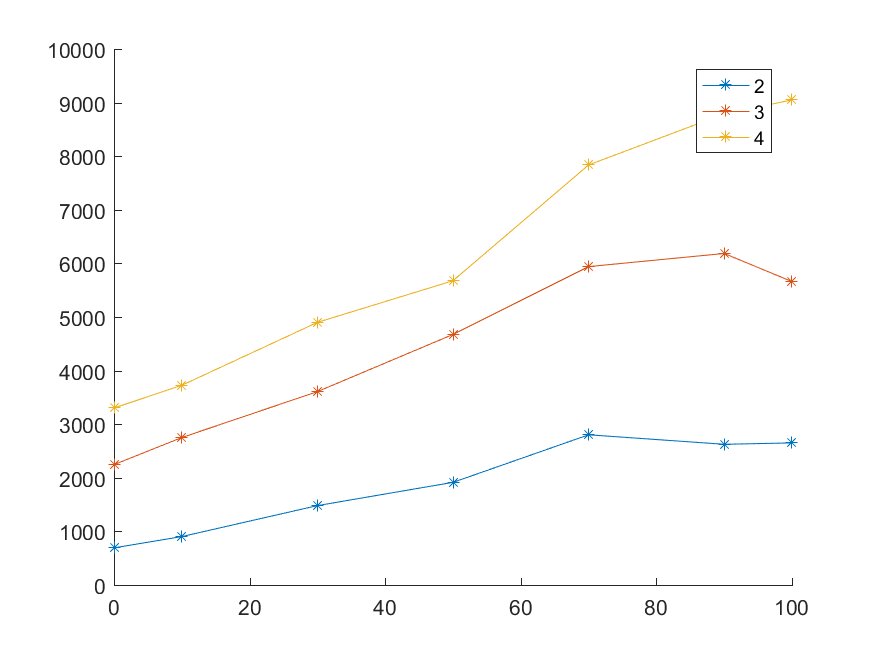
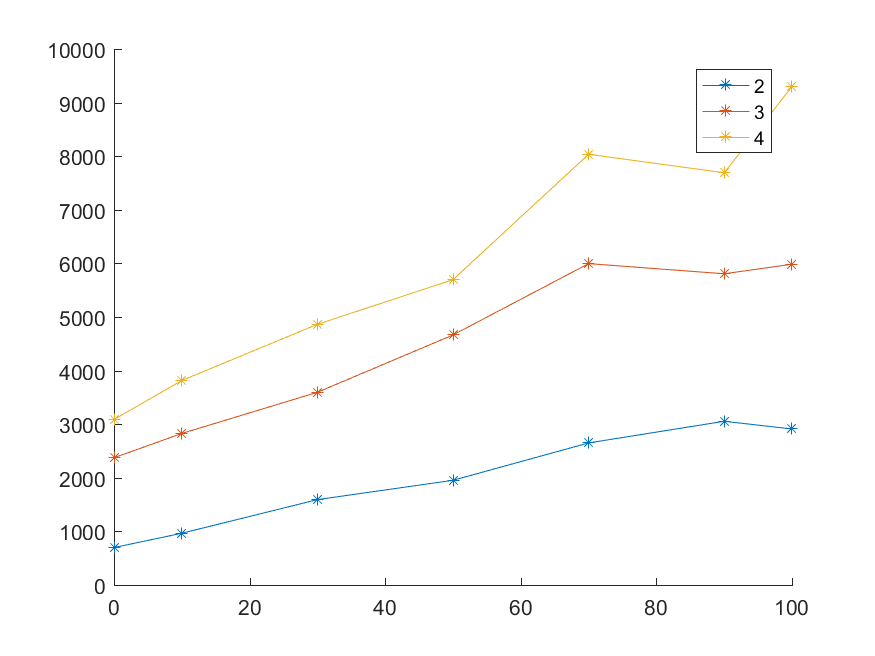
matlab bar

diff --git a/matlab/main.m b/matlab/main.m
@@ -2,7 +2,7 @@ clear all;
 routes=[5,90,405,520];
 for i=1:4
     [result,mileSumArr,mileNumArr]=parseData(num2str(routes(i)), 2);
-    %drawSingle(result,['../graphs/',num2str(routes(i))]);
+    drawSingle(result,['../graphs/',num2str(routes(i))]);
     
     results(i,:,:)=result(:,:);
     mileSumArrs(i,:)=mileSumArr(1,:)+mileSumArr(2,:);
@@ -10,9 +10,9 @@ for i=1:4
     
 end
 
-for i=2:5
-    sum(mileSumArrs(:,i))
-    sum(mileNumArrs(:,i))
+for i=1:4
+    result=parseData(num2str(routes(i)), 1);    
+    results(i+4,:,:)=result(:,:);
 end
 
 for percentage=1:7
@@ -20,6 +20,9 @@ for percentage=1:7
         result(percentage,path).speed=0;
         result(percentage,path).flow=0;
         result(percentage,path).density=0;
+        result2(percentage,path).speed=0;
+        result2(percentage,path).flow=0;
+        result2(percentage,path).density=0;
     end
     for path=2:5
         for i=1:4
@@ -29,7 +32,17 @@ for percentage=1:7
                 results(i,percentage,path).flow * (mileSumArrs(i,path) / sum(mileSumArrs(:,path)));
             result(percentage,path).density = result(percentage,path).density + ...
                 results(i,percentage,path).density * (mileNumArrs(i,path) / sum(mileNumArrs(:,path)));
+            result2(percentage,path).speed = result2(percentage,path).speed + ...
+                results(i+4,percentage,path).speed * (mileSumArrs(i,path) / sum(mileSumArrs(:,path)));
+            result2(percentage,path).flow = result2(percentage,path).flow + ...
+                results(i+4,percentage,path).flow * (mileSumArrs(i,path) / sum(mileSumArrs(:,path)));
+            result2(percentage,path).density = result2(percentage,path).density + ...
+                results(i+4,percentage,path).density * (mileNumArrs(i,path) / sum(mileNumArrs(:,path)));
         end
     end
 end
-drawSingle(result,['../graphs/all']);
+drawSingle(result,'../graphs/all');
+
+drawBar(result,result2,'../graphs/all_bar');
+
+

diff --git a/matlab/drawSingle.m b/matlab/drawSingle.m
@@ -20,7 +20,6 @@ function drawSingle(result,filepath)
             if(sum(yValue(i,:))>0)
                 hold on;
                 plot(xValue,yValue(i,:),'-*');
-
                 hold off;
             end
         end

diff --git a/matlab/parseData.m b/matlab/parseData.m
@@ -114,10 +114,6 @@ function [result,mileSumArr,mileNumArr] = parseData( route,n )
             end
         end
 
-        for i=1:5
-            
-        end
-        
     end
     
     
